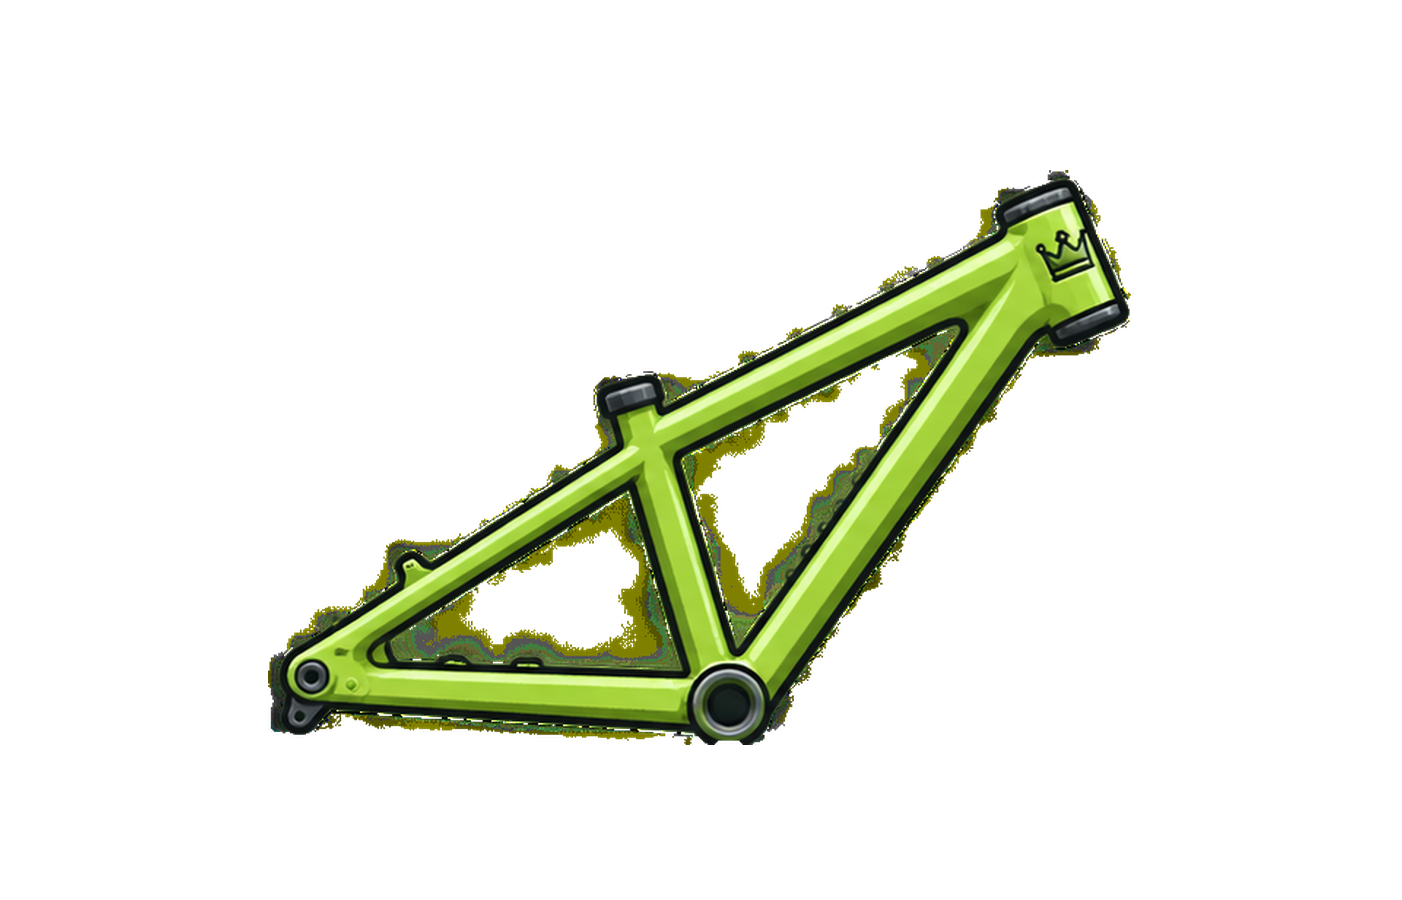
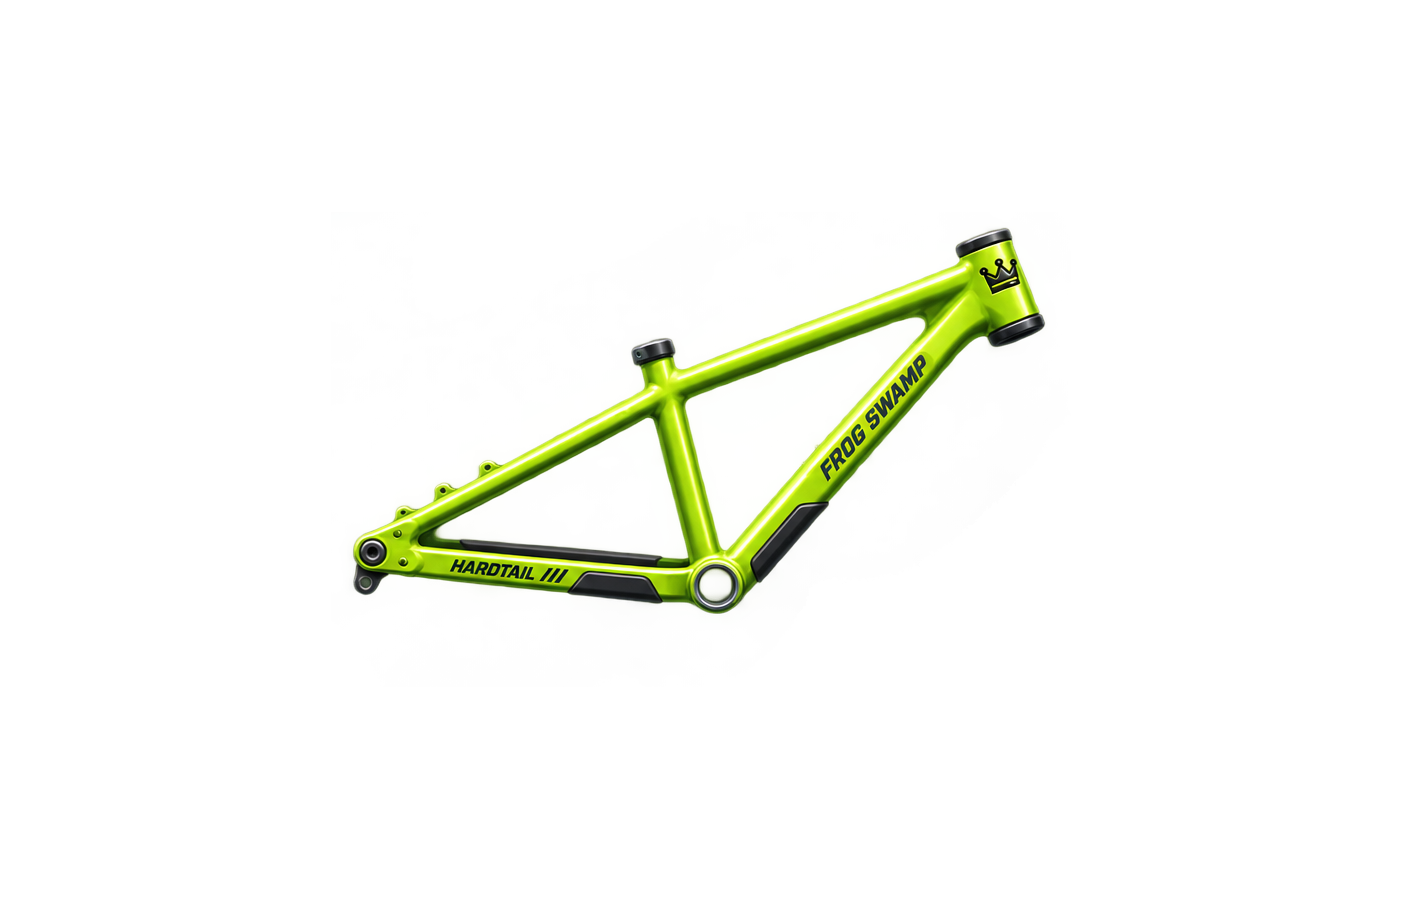
Add files via upload

Changed region(s): [[0.184, 0.1867, 0.8281, 0.84]]

diff --git a/index.html b/index.html
@@ -5,7 +5,7 @@
 <meta name="viewport" content="width=device-width,initial-scale=1,maximum-scale=1,user-scalable=no,viewport-fit=cover">
 <meta name="theme-color" content="#101923">
 <link rel="manifest" href="./manifest.json">
-<title>Freeride MTB — FROG SWAMP V69 LIVE GARAGE</title>
+<title>Freeride MTB — FROG SWAMP V73 MATCHED FRAME SET</title>
 <style>
 :root{--gold:#ffbd4a;--glass:rgba(8,19,30,.82);--line:#ffffff35}
 *{box-sizing:border-box;-webkit-user-select:none;user-select:none;-webkit-touch-callout:none}html,body{margin:0;width:100%;height:100%;overflow:hidden;background:#111c28;color:#fff;font-family:system-ui,Arial,sans-serif;touch-action:none;overscroll-behavior:none}
@@ -291,7 +291,7 @@
 <section id="settings" class="screen hidden"><div class="panel"><div class="brand">RIDER OPTIONS</div><h1 style="font-size:36px" id="settingsTitle">НАЛАШТУВАННЯ</h1><div class="row"><span id="soundLabel">Звук</span><div class="opts"><button data-set="sound" data-val="on">ON</button><button data-set="sound" data-val="off">OFF</button></div></div><div class="row"><span id="vibrationLabel">Вібрація</span><div class="opts"><button data-set="vibration" data-val="on">ON</button><button data-set="vibration" data-val="off">OFF</button></div></div><div class="row"><span>Повний екран</span><div class="opts"><button type="button" id="fullscreenSetting">⛶ УВІМКНУТИ</button></div></div><div class="row"><span id="languageLabel">Мова</span><div class="opts"><button data-set="lang" data-val="uk">UA</button><button data-set="lang" data-val="en">EN</button><button data-set="lang" data-val="ru">RU</button></div></div><div class="actions" style="margin-top:18px"><button class="btn primary" id="settingsBack">ГОТОВО</button></div></div></section>
 <section id="graphics" class="screen hidden"><div class="panel"><div class="brand">VISUAL SETTINGS</div><h1 style="font-size:36px" id="graphicsTitle">ГРАФІКА</h1><div class="row"><span id="qualityLabel">Якість</span><div class="opts"><button data-set="quality" data-val="low">LOW</button><button data-set="quality" data-val="medium">MED</button><button data-set="quality" data-val="high">HIGH</button></div></div><div class="row"><span id="shakeLabel">Тремтіння камери</span><div class="opts"><button data-set="shake" data-val="on">ON</button><button data-set="shake" data-val="off">OFF</button></div></div><div class="actions" style="margin-top:18px"><button class="btn primary" id="graphicsBack">ГОТОВО</button></div></div></section>
 <section id="loading" class="screen hidden"><div class="loader"></div><div id="loadingTitle" style="font-size:clamp(25px,6vw,42px);font-weight:1000">BUILDING THE TRACK</div><div class="brand">DIRT ARENA · PROCEDURAL MTB STAGE</div><div class="loadbar"><i></i></div><div class="note" id="loadingNote">Готуємо трампліни, покриття та підвіску...</div></section>
-<section id="splash" class="screen hidden"><div class="splash-mark" aria-label="Frog Swamp logo"><svg viewBox="0 0 120 80" role="img" aria-hidden="true"><path d="M14 42Q10 10 36 10Q49 10 52 28Q60 22 68 28Q71 10 84 10Q110 10 106 42L98 62Q60 78 22 62Z" fill="none" stroke="currentColor" stroke-width="5" stroke-linejoin="round"/><circle cx="37" cy="29" r="5" fill="currentColor"/><circle cx="83" cy="29" r="5" fill="currentColor"/><path d="M31 49Q60 66 89 49" fill="none" stroke="currentColor" stroke-width="4" stroke-linecap="round"/></svg></div><div class="splash-name">FROG SWAMP</div><div class="splash-sub">GAME DEVELOPMENT STUDIO</div><div class="splash-game">FREERIDE MTB</div><div class="splash-version">v0.69.0 · FREERIDE MTB</div><div class="splash-warning">Увага! Гра перебуває в розробці. Можливі помилки та зміни.</div><div class="splash-loader"><i></i></div></section>
+<section id="splash" class="screen hidden"><div class="splash-mark" aria-label="Frog Swamp logo"><svg viewBox="0 0 120 80" role="img" aria-hidden="true"><path d="M14 42Q10 10 36 10Q49 10 52 28Q60 22 68 28Q71 10 84 10Q110 10 106 42L98 62Q60 78 22 62Z" fill="none" stroke="currentColor" stroke-width="5" stroke-linejoin="round"/><circle cx="37" cy="29" r="5" fill="currentColor"/><circle cx="83" cy="29" r="5" fill="currentColor"/><path d="M31 49Q60 66 89 49" fill="none" stroke="currentColor" stroke-width="4" stroke-linecap="round"/></svg></div><div class="splash-name">FROG SWAMP</div><div class="splash-sub">GAME DEVELOPMENT STUDIO</div><div class="splash-game">FREERIDE MTB</div><div class="splash-version">v0.74.0 · FREERIDE MTB</div><div class="splash-warning">Увага! Гра перебуває в розробці. Можливі помилки та зміни.</div><div class="splash-loader"><i></i></div></section>
 <section id="over" class="screen hidden"><div class="panel"><div class="brand" id="overBrand">ЗАЇЗД ЗАВЕРШЕНО</div><h1 style="font-size:38px" id="ovT">ВПАВ!</h1><p class="sub" id="ovS"></p><div class="actions"><button class="btn primary" id="again">↻　НОВА ТРАСА</button><button class="btn" id="toMenu">⌂　МЕНЮ</button></div></div></section>
 <div id="hud" class="hidden"><div class="stats"><div class="tag" id="statsTag">FREERIDE MTB · DIRT ARENA</div><div class="big" id="stats">0 м · 0 очок</div><div class="small" id="speed">0 км/год</div><div class="bar" style="height:7px;margin-top:9px"><div class="fill" id="staminaFill" style="width:100%"></div></div><div class="tag" id="staminaLabel" style="margin-top:5px">ВИТРИВАЛІСТЬ</div></div><div class="top"><button class="icon menu-trigger" id="pause" aria-label="Меню">☰</button><button class="icon" id="fullscreenGame" aria-label="Повний екран">⛶</button></div><div class="controls"><div class="cluster left"><button class="control" data-key="left" aria-label="Balance left" draggable="false"><svg viewBox="0 0 24 24" aria-hidden="true"><path d="M14.8 4.5 7.3 12l7.5 7.5"/></svg></button><button class="control" data-key="right" aria-label="Balance right" draggable="false"><svg viewBox="0 0 24 24" aria-hidden="true"><path d="m9.2 4.5 7.5 7.5-7.5 7.5"/></svg></button></div><div class="cluster right"><button class="control hop" data-key="hop" aria-label="Bunny hop" title="Bunny Hop" draggable="false"><svg viewBox="0 0 24 24" aria-hidden="true"><path d="M4 17c3-5 5-7 8-7s5 2 8 7"/><path d="M12 14V3m-4 4 4-4 4 4"/></svg><span>HOP</span></button><button class="control brake" data-key="brake" aria-label="Brake" draggable="false"><svg viewBox="0 0 24 24" aria-hidden="true"><path d="M5 8h14l-7 9z"/><path d="M7 4h10"/></svg></button><button class="control pedal" data-key="pedal" aria-label="Pedal" draggable="false"><svg viewBox="0 0 24 24" aria-hidden="true"><path d="M12 19V5m-6 6 6-6 6 6"/></svg></button></div></div><div id="pausePanel" class="pause-panel hidden" aria-hidden="true"><div class="radial-pause">
  <div class="radial-core"><svg viewBox="0 0 120 80"><path d="M14 42Q10 10 36 10Q49 10 52 28Q60 22 68 28Q71 10 84 10Q110 10 106 42L98 62Q60 78 22 62Z" fill="none" stroke="currentColor" stroke-width="5"/><circle cx="37" cy="29" r="5" fill="currentColor"/><circle cx="83" cy="29" r="5" fill="currentColor"/><path d="M31 49Q60 66 89 49" fill="none" stroke="currentColor" stroke-width="4"/></svg><b>FROG<br>SWAMP</b></div>
@@ -610,61 +610,29 @@ function getPaintedBike(sprite,color){
 // V69: live garage preview. The PNG files contain the frame only; components
 // are drawn separately so each garage selection is visibly reflected.
 function renderGaragePreview(){
- const c=$("customBikePreview"); if(!c) return;
- const w=Math.max(320,Math.floor(c.clientWidth*2)), h=Math.max(190,Math.floor(c.clientHeight*2));
+ const c=$("customBikePreview");if(!c)return;
+ const w=Math.max(320,Math.floor(c.clientWidth*2)),h=Math.max(190,Math.floor(c.clientHeight*2));
  if(c.width!==w||c.height!==h){c.width=w;c.height=h;}
- const g=c.getContext("2d"); g.clearRect(0,0,w,h);
- const bg=g.createRadialGradient(w*.5,h*.52,8,w*.5,h*.52,w*.62);
- bg.addColorStop(0,"#243746");bg.addColorStop(1,"#070b10");g.fillStyle=bg;g.fillRect(0,0,w,h);
- const im=frameSprites[selectedFrame];
- if(!im||!im.complete||!im.naturalWidth){g.fillStyle="#fff";g.font="bold 18px sans-serif";g.fillText("Завантаження моделі…",24,40);return;}
- const scale=Math.min((w*.88)/im.naturalWidth,(h*.82)/im.naturalHeight);
- const iw=im.naturalWidth*scale, ih=im.naturalHeight*scale, x=(w-iw)/2, y=(h-ih)/2;
- // Wheel sizes are tied to the selected tire set.
- const parts=bikeParts[selectedBike]||partDefaults[selectedBike];
- const wheelR=parts.tires==="maxxis"?Math.min(w,h)*.105:parts.tires==="continental"?Math.min(w,h)*.125:Math.min(w,h)*.115;
- const rearX=x+iw*.14, frontX=x+iw*.91, axleY=y+ih*.82;
+ const g=c.getContext("2d");g.clearRect(0,0,w,h);
+ const bg=g.createRadialGradient(w*.5,h*.5,8,w*.5,h*.5,w*.7);
+ bg.addColorStop(0,"#263d49");bg.addColorStop(1,"#070b10");g.fillStyle=bg;g.fillRect(0,0,w,h);
+ const im=frameSprites[selectedFrame];if(!im||!im.complete||!im.naturalWidth){g.fillStyle="#fff";g.font="bold 18px sans-serif";g.fillText("Завантаження моделі…",20,35);return;}
+ const scale=Math.min((w*.84)/im.naturalWidth,(h*.78)/im.naturalHeight);
+ const iw=im.naturalWidth*scale,ih=im.naturalHeight*scale,x=(w-iw)/2,y=(h-ih)/2;
+ const parts=bikeParts[selectedBike]||partDefaults[selectedBike]||{};
+ const rearX=x+iw*(160/1400),frontX=x+iw*(1105/1400),wheelY=y+ih*(620/800);
+ const R=Math.min(w,h)*.17;
  function wheel(cx,cy){
-  g.save();g.lineWidth=wheelR*.18;g.strokeStyle="#080b0e";g.beginPath();g.arc(cx,cy,wheelR,0,Math.PI*2);g.stroke();
-  g.lineWidth=wheelR*.07;g.strokeStyle="#aab5bd";g.beginPath();g.arc(cx,cy,wheelR*.83,0,Math.PI*2);g.stroke();
-  g.lineWidth=2;g.strokeStyle="#72818c";
-  for(let a=0;a<8;a++){let t=a*Math.PI/4;g.beginPath();g.moveTo(cx,cy);g.lineTo(cx+Math.cos(t)*wheelR*.8,cy+Math.sin(t)*wheelR*.8);g.stroke();}
-  g.fillStyle="#b9c4cb";g.beginPath();g.arc(cx,cy,wheelR*.13,0,Math.PI*2);g.fill();
-  const rotor=parts.brakes;
-  g.strokeStyle=rotor==="mechanical"?"#9aa4ad":rotor==="hydro8"?"#e3b64b":"#d7dfe5";g.lineWidth=wheelR*.09;
-  g.beginPath();g.arc(cx,cy,wheelR*.48,0,Math.PI*2);g.stroke();
-  g.restore();
+  g.lineWidth=R*.16;g.strokeStyle="#070b0f";g.beginPath();g.arc(cx,cy,R,0,7);g.stroke();
+  g.lineWidth=R*.045;g.strokeStyle="#aebbc3";g.beginPath();g.arc(cx,cy,R*.84,0,7);g.stroke();
+  g.lineWidth=1.5;g.strokeStyle="#73818a";
+  for(let k=0;k<16;k++){const a=k*Math.PI/8;g.beginPath();g.moveTo(cx,cy);g.lineTo(cx+Math.cos(a)*R*.82,cy+Math.sin(a)*R*.82);g.stroke();}
+  g.fillStyle="#d6dfe4";g.beginPath();g.arc(cx,cy,R*.1,0,7);g.fill();
  }
- wheel(rearX,axleY);wheel(frontX,axleY);
- // Fork: distinct single/dual crown silhouettes.
- const forkColor=parts.fork==="fox36"?"#e17a2b":parts.fork==="zeb"?"#c94a43":"#d7b34f";
- const headX=x+iw*.82, headY=y+ih*.27;
- g.lineCap="round";g.lineWidth=iw*(parts.fork==="fox40"?.027:.021);g.strokeStyle="#101820";
- g.beginPath();g.moveTo(headX- iw*.025,headY);g.lineTo(frontX-iw*.025,axleY);g.stroke();
- g.strokeStyle=forkColor;g.lineWidth=iw*(parts.fork==="fox40"?.017:.013);
- g.beginPath();g.moveTo(headX-iw*.025,headY);g.lineTo(frontX-iw*.025,axleY);g.stroke();
- g.beginPath();g.moveTo(headX+iw*.012,headY+ih*.02);g.lineTo(frontX+iw*.012,axleY);g.stroke();
- if(parts.fork==="fox40"||parts.fork==="lightdual"){
-  g.strokeStyle="#d6dce1";g.lineWidth=iw*.025;g.beginPath();g.moveTo(headX-iw*.04,headY+ih*.02);g.lineTo(headX+iw*.045,headY+ih*.02);g.stroke();
- }
- // Render the selected shock over the frame's stock shock position.
- if(parts.shock && selectedFrame!=="hardtail"){
-  const sx=x+iw*.54, sy=y+ih*.43, ex=x+iw*.68, ey=y+ih*.62;
-  g.lineWidth=iw*.026;g.strokeStyle="#101820";g.beginPath();g.moveTo(sx,sy);g.lineTo(ex,ey);g.stroke();
-  g.lineWidth=iw*.014;g.strokeStyle=parts.shock==="bigcoil"?"#d94a42":parts.shock==="lightcoil"?"#d8a23e":"#9dc5d6";
-  g.beginPath();g.moveTo(sx,sy);g.lineTo(ex,ey);g.stroke();
-  if(parts.shock!=="air"){
-   g.lineWidth=iw*.008;g.strokeStyle="#e8edf0";
-   for(let i=1;i<7;i++){let t=i/7, px=sx+(ex-sx)*t,py=sy+(ey-sy)*t;g.beginPath();g.arc(px,py,iw*.012,0,Math.PI*2);g.stroke();}
-  }
- }
- // Handlebar, stem and saddle are drawn as separate visible parts.
- g.lineCap="round";g.strokeStyle="#111820";g.lineWidth=iw*.018;
- g.beginPath();g.moveTo(headX-iw*.055,headY-ih*.09);g.lineTo(headX+iw*.055,headY-ih*.09);g.stroke();
- g.fillStyle="#111820";g.beginPath();g.ellipse(x+iw*.25,y+ih*.24,iw*.055,ih*.014,-.06,0,Math.PI*2);g.fill();
- // Small compatibility/status caption.
- g.fillStyle="#dce7ee";g.font=`bold ${Math.max(11,Math.round(h*.035))}px sans-serif`;
- g.fillText(selectedFrame.toUpperCase()+"  ·  "+(parts.shock?parts.shock.toUpperCase():"NO REAR SHOCK"),14,h-16);
+ wheel(rearX,wheelY);wheel(frontX,wheelY);
+ g.drawImage(im,x,y,iw,ih);
+ g.fillStyle="#e7f5f6";g.font=`bold ${Math.max(10,Math.round(h*.035))}px sans-serif`;
+ g.fillText(selectedFrame.toUpperCase()+"  ·  "+(parts.shock&&selectedFrame!=="hardtail"?parts.shock.toUpperCase():"NO REAR SHOCK"),14,h-14);
 }
 
 function drawComponentOverlays(bikeId,parts,iw,ih){
@@ -934,45 +902,14 @@ function shoe(p){ctx.fillStyle="#f2f2f2";ctx.beginPath();ctx.roundRect(p[0]-5,p[
 function drawBike(){
  const sr=Math.max(2,S-B.c[0]),sf=Math.max(2,S-B.c[1]),P=riderPose();
  ctx.save();ctx.translate(B.x,B.y);ctx.rotate(B.a);ctx.translate(-LEAN*B.lean,AY);
- // The three selectable bikes now use their own detailed painted frame artwork.
- // Wheel centres follow live suspension positions.
- drawWheel(-L,sr,B.sp[0]);drawWheel(L,sr,B.sp[1]);
- const sprite=bikeSprites[Math.max(0,Math.min(2,selectedBike))];
- if(sprite && sprite.complete && sprite.naturalWidth>0){
-   const rearAxleX=195,rearAxleY=735,frontAxleX=1280;
-   const scale=(2*L)/(frontAxleX-rearAxleX);
-   ctx.drawImage(sprite,-L-rearAxleX*scale,sr-rearAxleY*scale,sprite.naturalWidth*scale,sprite.naturalHeight*scale);
-   // Selected aftermarket components: layered over the matching bike silhouette.
-   const parts=bikeParts[selectedBike]||partDefaults[2];
-   const forkCol=parts.fork==="fox36"?"#d68a2d":parts.fork==="zeb"?"#c64d43":"#d5ad45";
-   const shockCol=parts.shock==="bigcoil"?"#d5ad45":parts.shock==="lightcoil"?"#aeb8c2":"#e28b2f";
-   const barCol=parts.bar==="renthal"?"#d8a33b":parts.bar==="raceface"?"#aab4bf":"#8c65d8";
-   const saddleCol=parts.saddle==="sdg"?"#20252b":parts.saddle==="wtb"?"#59616b":"#252a31";
-   // Fork stanchions and lowers, head-crown accent.
-   ln2([30,-31,34,-18,40,1],"#111820",7);
-   ln2([30,-31,34,-18,40,1],forkCol,3.2);
-   ln2([29,-31,31,-24],"#e8edf2",1.1);
-   // Rear shock body and visible coil rings.
-   ln2([12,-11,19,-3],"#111820",6);
-   if(selectedFrame!=="hardtail")ln2([12,-11,19,-3],shockCol,2.7);
-   for(let k=0;k<(parts.shock==="air"?0:4);k++){const t=k/4;const x=12+7*t,y=-11+8*t;ln2([x-1,y-1,x+1,y+1],parts.shock==="air"?"#d8f0ff":"#ffe0a0",1.1)}
-   // Handlebar/stem finish.
-   ln2([29,-36,40,-36],"#111820",5);
-   ln2([29,-36,40,-36],barCol,2.5);
-   // Saddle shell and rails.
-   ln2([-29,-42,-18,-42],"#111820",6);
-   ln2([-29,-42,-18,-42],saddleCol,3);
-   // Headset ring and branded brake caliper accents.
-   const hsCol=parts.headset==="chrisking"?"#d5ad45":parts.headset==="hope"?"#d95b55":"#aab5c0";
-   ctx.fillStyle=hsCol;ctx.beginPath();ctx.arc(27,-29,2.5,0,7);ctx.fill();
-   const stemCol=parts.stem==="renthal"?"#d8a33b":parts.stem==="raceface"?"#aab4bf":"#8c65d8";
-   ln2([28,-34,33,-36],"#111820",4);ln2([28,-34,33,-36],stemCol,2);
- }else{
-   // Temporary frame while the selected PNG loads.
-   const col=selectedBike===1?"#9a73d8":selectedBike===0?"#b8c0c8":"#22b9aa";
-   ln2([-L,sr,-12,8,31,-25,L,sf],"#111820",9);ln2([-L,sr,-12,8,31,-25,L,sf],col,5);
-   ln2([-12,8,4,17,31,-25],"#111820",8);ln2([-12,8,4,17,31,-25],col,4);
-   ln2([31,-25,L,sf],"#b58a43",5);
+ // The frame is a clean game-style vector rendering made from shaded tubes,
+ // forged linkage plates and visible pivot hardware — never a photo.
+ drawWheel(-L,sr,B.sp[0]);drawWheel(L,sf,B.sp[1]);
+ const img=frameSprites[selectedFrame]||bikeSprites[selectedBike];
+ if(img&&img.complete&&img.naturalWidth){
+   const scale=(2*L)/(1105-160);
+   const dx=-L-160*scale,dy=sr-620*scale;
+   ctx.drawImage(img,dx,dy,img.naturalWidth*scale,img.naturalHeight*scale);
  }
  // Rider stays animated and independent from the static bike-frame artwork.
  if(!B.rg){
@@ -988,6 +925,8 @@ function drawBike(){
    ctx.fillStyle="#fff";ctx.fillRect(1,-3,10,5);ctx.fillStyle="#111";ctx.fillRect(3,-2,7,3);
    ctx.restore();
  }
+
+
  ctx.restore();
 }
 function pine(x,y,h,c){ctx.fillStyle="#4a3426";ctx.fillRect(x-h*.04,y-h*.2,h*.08,h*.2);

diff --git a/sw.js b/sw.js
@@ -1,4 +1,4 @@
-const CACHE_NAME = 'freeride-mtb-v73-matched-frames';
+const CACHE_NAME = 'freeride-mtb-v74-matched-frame-art';
 const ASSETS = ["./","./index.html","./manifest.json","./frame_aggressive.png","./frame_trail.png","./frame_hardtail.png"];
 self.addEventListener("install", e => e.waitUntil(caches.open(CACHE_NAME).then(c=>c.addAll(ASSETS)).then(()=>self.skipWaiting())));
 self.addEventListener("activate", e => e.waitUntil(caches.keys().then(keys=>Promise.all(keys.filter(k=>k!==CACHE_NAME).map(k=>caches.delete(k)))).then(()=>self.clients.claim())));

diff --git a/README.md b/README.md
@@ -1,7 +1,10 @@
-# Freeride MTB V73 — matched frame set
+# Freeride MTB V74 — matched frame artwork
 
-- Trail: preserved from the exact user-supplied `frame_trail.png` reference.
-- Aggressive: matching teal full-suspension tube frame with gold coil and linkage.
-- Hardtail: matching lime rigid tube frame with no rear shock.
-- All three assets share a 1402×900 canvas and aligned geometry for the existing game renderer.
-- Assets are transparent PNGs, not screenshots or photo cards.
+This archive contains the V73 game files with updated frame PNG artwork based on the three-frame reference sheet:
+- Aggressive: turquoise full-suspension frame
+- Trail: silver full-suspension frame
+- Hardtail: lime rigid frame without rear shock
+
+The three PNG assets are separate transparent images, prepared on matching 1402x900 canvases for the existing game asset paths.
+
+Upload all seven files to the repository root, replacing the previous versions. Browser gameplay has not been tested in this archive.
